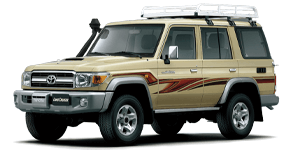
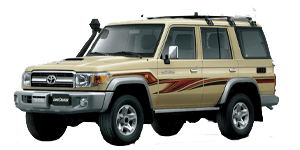
Arreglos en Productos

diff --git a/dindex2.css b/dindex2.css
@@ -1,21 +1,64 @@
-.contenedor{
-    display: grid;
-    grid-template-areas: 
-    'img1 img1 img2 img3'
-    'img1 img1 img4 img4'
-    ;
-    grid-template-rows: 40vh 35vh;
-    grid-template-columns: 50vh 30vh;
+*{margin: 0;
+    padding: 0;
+    box-sizing: border-box;
+    font-family: sans-serif;
+    }
+    .contenedorA{
+        width: 100%;
+        display: flex;
+       
+        align-items: center;
+       
+    }
+    .contenedorA figure{
+position: relative;
+height: 250px;
+cursor: pointer;
+width: 300px;
+overflow: hidden;
+border-radius: 6px;
+box-shadow: 0px 15px 25px rgba(0, 0, 0, 0.50); 
 }
-.a{
-    grid-area: img1;
+.contenedorA figure img{
+width: 100%;
+height: 100%;
+transition: all 400ms ease-out;
+will-change: transform;
 }
-.b{
-    grid-area: img2;
+.contenedorA figure .capa{
+    position: absolute;
+    top: 0;
+    width: 100%;
+    height: 100%;
+    background: rgba(0,103,123,0.7);
+    transition: all 400ms ease-out;
+    opacity: 0;
+    visibility: hidden;
+   text-align: center;
 }
-.c{
-    grid-area: img3;
+.contenedorA figure:hover > .capa {
+    opacity: 1;
+    visibility: visible;
 }
-.d{
-    grid-area: img4;
+.contenedorA figure:hover > .capa h3{
+    margin-top: 70px;
+    margin-bottom: 15px;
+}
+.contenedorA figure:hover > img{
+    transform: scale(1.3);
+}
+.contenedorA figure .capa h3{
+    color: #fff;
+    font-weight: 400;
+    margin-bottom: 120px;
+    transition: all 400ms ease-out;
+     margin-top: 30px;
+}
+.contenedorA figure .capa p{
+    color: #fff;
+    font-size: 15px;
+    line-height: 1.5;
+    width: 100%;
+    max-width: 220px;
+    margin: auto;
 }

diff --git a/dindex.css b/dindex.css
@@ -1,10 +1,32 @@
-input[type=submit] {
+.a [type=submit]{
+        width: 100%;
+        background-color: yellow;
+        color: black;
+        padding: 14px 20px;
+        margin: 8px 0;
+        border: solid;
+        border-radius: 4px;
+        cursor: pointer;
+}
+
+.b [type=submit]{
     width: 100%;
-    background-color: #00d9ff6e;
-    color: rgb(255, 255, 255);
+    background-color: skyblue;
+    color: black;
     padding: 14px 20px;
     margin: 8px 0;
-    border: none;
+    border: solid;
+    border-radius: 4px;
+    cursor: pointer;
+}
+
+.c [type=submit]{
+    width: 100%;
+    background-color: lightblue;
+    color: black;
+    padding: 14px 20px;
+    margin: 8px 0;
+    border: solid;
     border-radius: 4px;
     cursor: pointer;
 }

diff --git a/productos/d.css b/productos/d.css
@@ -1,10 +1,32 @@
-input[type=submit] {
+.a [type=submit]{
     width: 100%;
-    background-color: #00b0cfa9;
-    color: rgb(255, 255, 255);
+    background-color: yellow;
+    color: black;
     padding: 14px 20px;
     margin: 8px 0;
-    border: none;
+    border: solid;
     border-radius: 4px;
     cursor: pointer;
+}
+
+.b [type=submit]{
+width: 100%;
+background-color: skyblue;
+color: black;
+padding: 14px 20px;
+margin: 8px 0;
+border: solid;
+border-radius: 4px;
+cursor: pointer;
+}
+
+.c [type=submit]{
+width: 90%;
+background-color: lightblue;
+color: black;
+padding: 14px 20px;
+margin: 8px 0;
+border: solid;
+border-radius: 4px;
+cursor: pointer;
 }

diff --git a/productos/efectos.css b/productos/efectos.css
@@ -15,9 +15,9 @@
 
 .contenedor figure {
     position: relative;
-    height: 250px;
+    height: 200px;
     cursor: pointer;
-    width: 300px;
+    width: 250px;
     overflow: hidden;
     border-radius: 6px;
     box-shadow: 0px 15px 25px rgba(0, 0, 0, 0.50);

diff --git a/productos/productos.php b/productos/productos.php
@@ -12,21 +12,27 @@
 
 <body style="background: url(image/fondo.jpg); background-size: cover; background-repeat: no-repeat;">
     <table width="100%">
-        <tr>
+    <tr>
             <td colspan="4">
+                <section class="a">
                 <form action="../index.php">
-                    <input type="submit" value="Pa. Inicio">
+                    <input type="submit" value="PgInicio">
                 </form>
+                </section>
             </td>
             <td colspan="4">
+                <section class="b">
                 <form action="../tiendas/tiendas.php">
                     <input type="submit" value="Tiendas">
                 </form>
+                </section>
             </td>
             <td colspan="4">
+                <section class="c">
                 <form action="../mensajeria/lg.php">
                     <input type="submit" value="Contáctenos">
                 </form>
+                </section>
             </td>
         </tr>
         <tr>
@@ -41,7 +47,7 @@
                 <section class="a">
                     <div class="contenedor">
                         <figure>
-                            <img src="image/S2A-23.jpg">
+                            <img src="image/SA2-23.png">
                             <div class="capa">
                                 <h3>RAV4</h3>
                                 <p>Modelo SA2-23 Gasolina,16 Valvulas, DOHC, Dual VVTi, 203/4400-4900 Nm/rpm. M20A-FKS <br>Q250,000</p>
@@ -54,10 +60,10 @@
                 <section class="b">
                     <div class="contenedor">
                         <figure>
-                            <img src="image/S2M-23.jpg">
+                            <img src="image/J11F-23.png">
                             <div class="capa">
-                                <h3>RAV4</h3>
-                                <p>Modelo S2M-23 Cuero local Gratis<br>Q250,000 </p>
+                                <h3>Toyota Land Cruiser PickUp</h3>
+                                <p>Modelo J11W-22 Diesel, 12 Válvulas, OHC, HAC 285/2200 Nm/rpm. 1HZ<br>Q359,990 </p>
                             </div>
                         </figure>
                     </div>
@@ -67,7 +73,7 @@
                 <section class="c">
                     <div class="contenedor">
                         <figure>
-                            <img src="image/S2A-23.jpg">
+                            <img src="image/SA2-23.png">
                             <div class="capa">
                                 <h3>RAV4</h3>
                                 <p>Modelo S2T-23 Gasolina,16 Valvulas,DOHC,Dual VVTi, 203/4400-4900 Nm/rpm. M20A-FKS<br>Q265,999 </p>
@@ -80,7 +86,7 @@
                 <section class="d">
                     <div class="contenedor">
                         <figure>
-                            <img src="image/MU-23.jpg">
+                            <img src="image/MU-23.png">
                             <div class="capa">
                                 <h3>Toyota Yaris</h3>
                                 <p>Modelo MU-23 Gasolina,VVT-i Dual,16Válvulas DOHC 123/4200 Nm/rpm. 1NR-FE<br>Q125,900 </p>
@@ -95,7 +101,7 @@
                 <section class="e">
                     <div class="contenedor">
                         <figure>
-                            <img src="image/VX-23.jpg">
+                            <img src="image/VX-23.png" width="50%">
                             <div class="capa">
                                 <h3>Toyota Corolla Cross Gasolina</h3>
                                 <p>Modelo VX-23 Gasolina,16 Valvulas,DOHC,Dual VVTi, 203/4400-4900 Nm/rpm. M20A-FKS <br>Q215,990</p>
@@ -108,7 +114,7 @@
                 <section class="f">
                     <div class="contenedor">
                         <figure>
-                            <img src="image/CHR2-23.jpg">
+                            <img src="image/CHR2-23.png">
                             <div class="capa">
                                 <h3>CH R Hibrida</h3>
                                 <p>Modelo CHR2-23 Gasolina, 16 válvulas, VVTi, DOHC, 142/3600 Nm/rpm. 2ZR-FXE. Motor eléctrico de 72 H.P. 163/Nm Híbrido<br>Q257,990 </p>
@@ -121,7 +127,7 @@
                 <section class="g">
                     <div class="contenedor">
                         <figure>
-                            <img src="image/CHR3-23.jpg">
+                            <img src="image/CHR3-23.png">
                             <div class="capa">
                                 <h3>CH R Hibrida</h3>
                                 <p>Modelo chr3-23 Gasolina, 16 válvulas, VVTi, DOHC, 142/3600 Nm/rpm. 2ZR-FXE. Motor eléctrico de 72 H.P. 163/Nm Híbrido<br>Q262,990 </p>
@@ -134,7 +140,7 @@
                 <section class="h">
                     <div class="contenedor">
                         <figure>
-                            <img src="image/PA-23.jpg">
+                            <img src="image/PA-23.png">
                             <div class="capa">
                                 <h3>Toyota Yaris Sedan</h3>
                                 <p>Modelo PA-23 Gasolina,VVT-i Dual,16Válvulas DOHC, 140/4200 Nm/rpm. 2NR-FE<br>Q175,900 </p>
@@ -150,7 +156,7 @@
                 <section class="i">
                     <div class="contenedor">
                         <figure>
-                            <img src="image/BU-23.jpg">
+                            <img src="image/BU-23.png">
                             <div class="capa">
                                 <h3>Toyota Innova</h3>
                                 <p>Modelo BU-23 Gasolina,VVTi,16 Válvulas, DOHC 245/4000 Nm/rpm. 2TR-FE Caja automática de 6 velocidades y retroceso <br>Q205,990</p>
@@ -163,7 +169,7 @@
                 <section class="j">
                     <div class="contenedor">
                         <figure>
-                            <img src="image/GK-23.jpg">
+                            <img src="image/GK-23.png">
                             <div class="capa">
                                 <h3>Toyota Raize</h3>
                                 <p>Modelo GK-23 Gasolina, Turbo, Intercooler, 12 Válvulas, DOHC, DVVT, 140Nm/2400-4000rpm. 1KR-VET Caja continuamente variable y secuencial de 7 velocidades y retroceso<br>Q186,990 </p>
@@ -176,7 +182,7 @@
                 <section class="k">
                     <div class="contenedor">
                         <figure>
-                            <img src="image/LC-23.jpg">
+                            <img src="image/LC-23.png">
                             <div class="capa">
                                 <h3>Toyota Raize</h3>
                                 <p>Modelo LC-23 Gasolina, 12 Válvulas, DOHC, Dual-VVT, 113Nm/4500rpm. WA-VE<br>Q156,990 </p>

diff --git a/index.php b/index.php
@@ -6,11 +6,10 @@
     <meta name="viewport" content="width=device-width, initial-scale=1">
     <link href="https://cdn.jsdelivr.net/npm/bootstrap@5.1.3/dist/css/bootstrap.min.css" rel="stylesheet" integrity="sha384-1BmE4kWBq78iYhFldvKuhfTAU6auU8tT94WrHftjDbrCEXSU1oBoqyl2QvZ6jIW3" crossorigin="anonymous">
     <link rel="stylesheet" href="dindex.css">
-    <link rel="stylesheet" href="dindex2.css">
     <title>Toyota</title>
 </head>
 
-<body style="background: url(image/fondoa.jpg); background-size: cover; background-repeat: no-repeat;">
+<body>
     <table width="100%">
         <tr>
             <td colspan="12" align="center">
@@ -44,19 +43,25 @@
         </tr>
         <tr>
             <td colspan="4">
+                <section class="a">
                 <form action="productos/productos.php">
                     <input type="submit" value="Productos">
                 </form>
+                </section>
             </td>
             <td colspan="4">
+                <section class="b">
                 <form action="tiendas/tiendas.php">
                     <input type="submit" value="Tiendas">
                 </form>
+                </section>
             </td>
             <td colspan="4">
+                <section class="c">
                 <form action="mensajeria/lg.php">
                     <input type="submit" value="Contáctenos">
                 </form>
+                </section>
             </td>
         </tr>
         <tr>
@@ -66,23 +71,40 @@
         </tr>
     </table><br>
     <div class="contenedor">
-        <section class="a" align="center"><a href="image/lg.png"><img src="image/lg.png" width="330px" height="300px"></a></section>
-        <section class="b" align="center"><img src="image/img1.png" width="300px" height="250px"></section>
-        <section class="c" align="center"><img src="image/img2.png" width="300px" height="250px"></section>
-        <section class="d" align="center"><img src="image/img3.png" width="300px" height="250px"></section>
+        <table width="100%" align="center" border="1">
+            <tr>
+                <td colspan="6" rowspan="2">
+                    <img src="image/lg.png" width="420px" height="340px">
+                </td>
+                <td colspan="3">
+                    <img src="image/img1.png"  width="250px" height="200px">
+                </td>
+                <td colspan="3">
+                    <img src="image/img2.png" width="370px" height="230px">
+                </td>
+            </tr>
+            <tr>
+                <td colspan="6">
+                    <img src="image/img3.png" width="550px" height="325px">
+                </td>
+            </tr>
+        </table>
     </div>
     <table align="center" width="100%">
         <tr style="background-color: purple;">
-            <td colspan="2" align="left">
+            <td colspan="1" align="left">
                 <h6 style="color: withe;">PBX: XXXXX-XXXXX</h6>
             </td>
-            <td colspan="2" align="right">
+            <td colspan="1" align="right">
                 <h6 style="color: left;">Dirección: XXXXX-XXXXX-XXXX</h6>
             </td>
-            <td colspan="2" align="right">
+            <td colspan="4">
+                .
+            </td>
+            <td colspan="1" align="right">
                 <h6>Carné: 2021-40131</h6>
             </td>
-            <td colspan="4">.</td>
+            <td colspan="1">.</td>
             <td colspan="2" align="right">
                 <h6>Nombre: Juan José Samayoa Vásquez</h6>
             </td>

diff --git a/mensajeria/administradores.php b/mensajeria/administradores.php
@@ -17,7 +17,7 @@ if (isset($us) && isset($pass)) {
   if ($us==$usok && $pass==$pasok) {
     $_SESSION['logeosi'] = TRUE;
     $_SESSION['Usuario'] = $us;
-    header("location:revisión.php");
+    header("location:revision.php");
   }
   else{ 
     echo '<script lenguage="javascript">';
